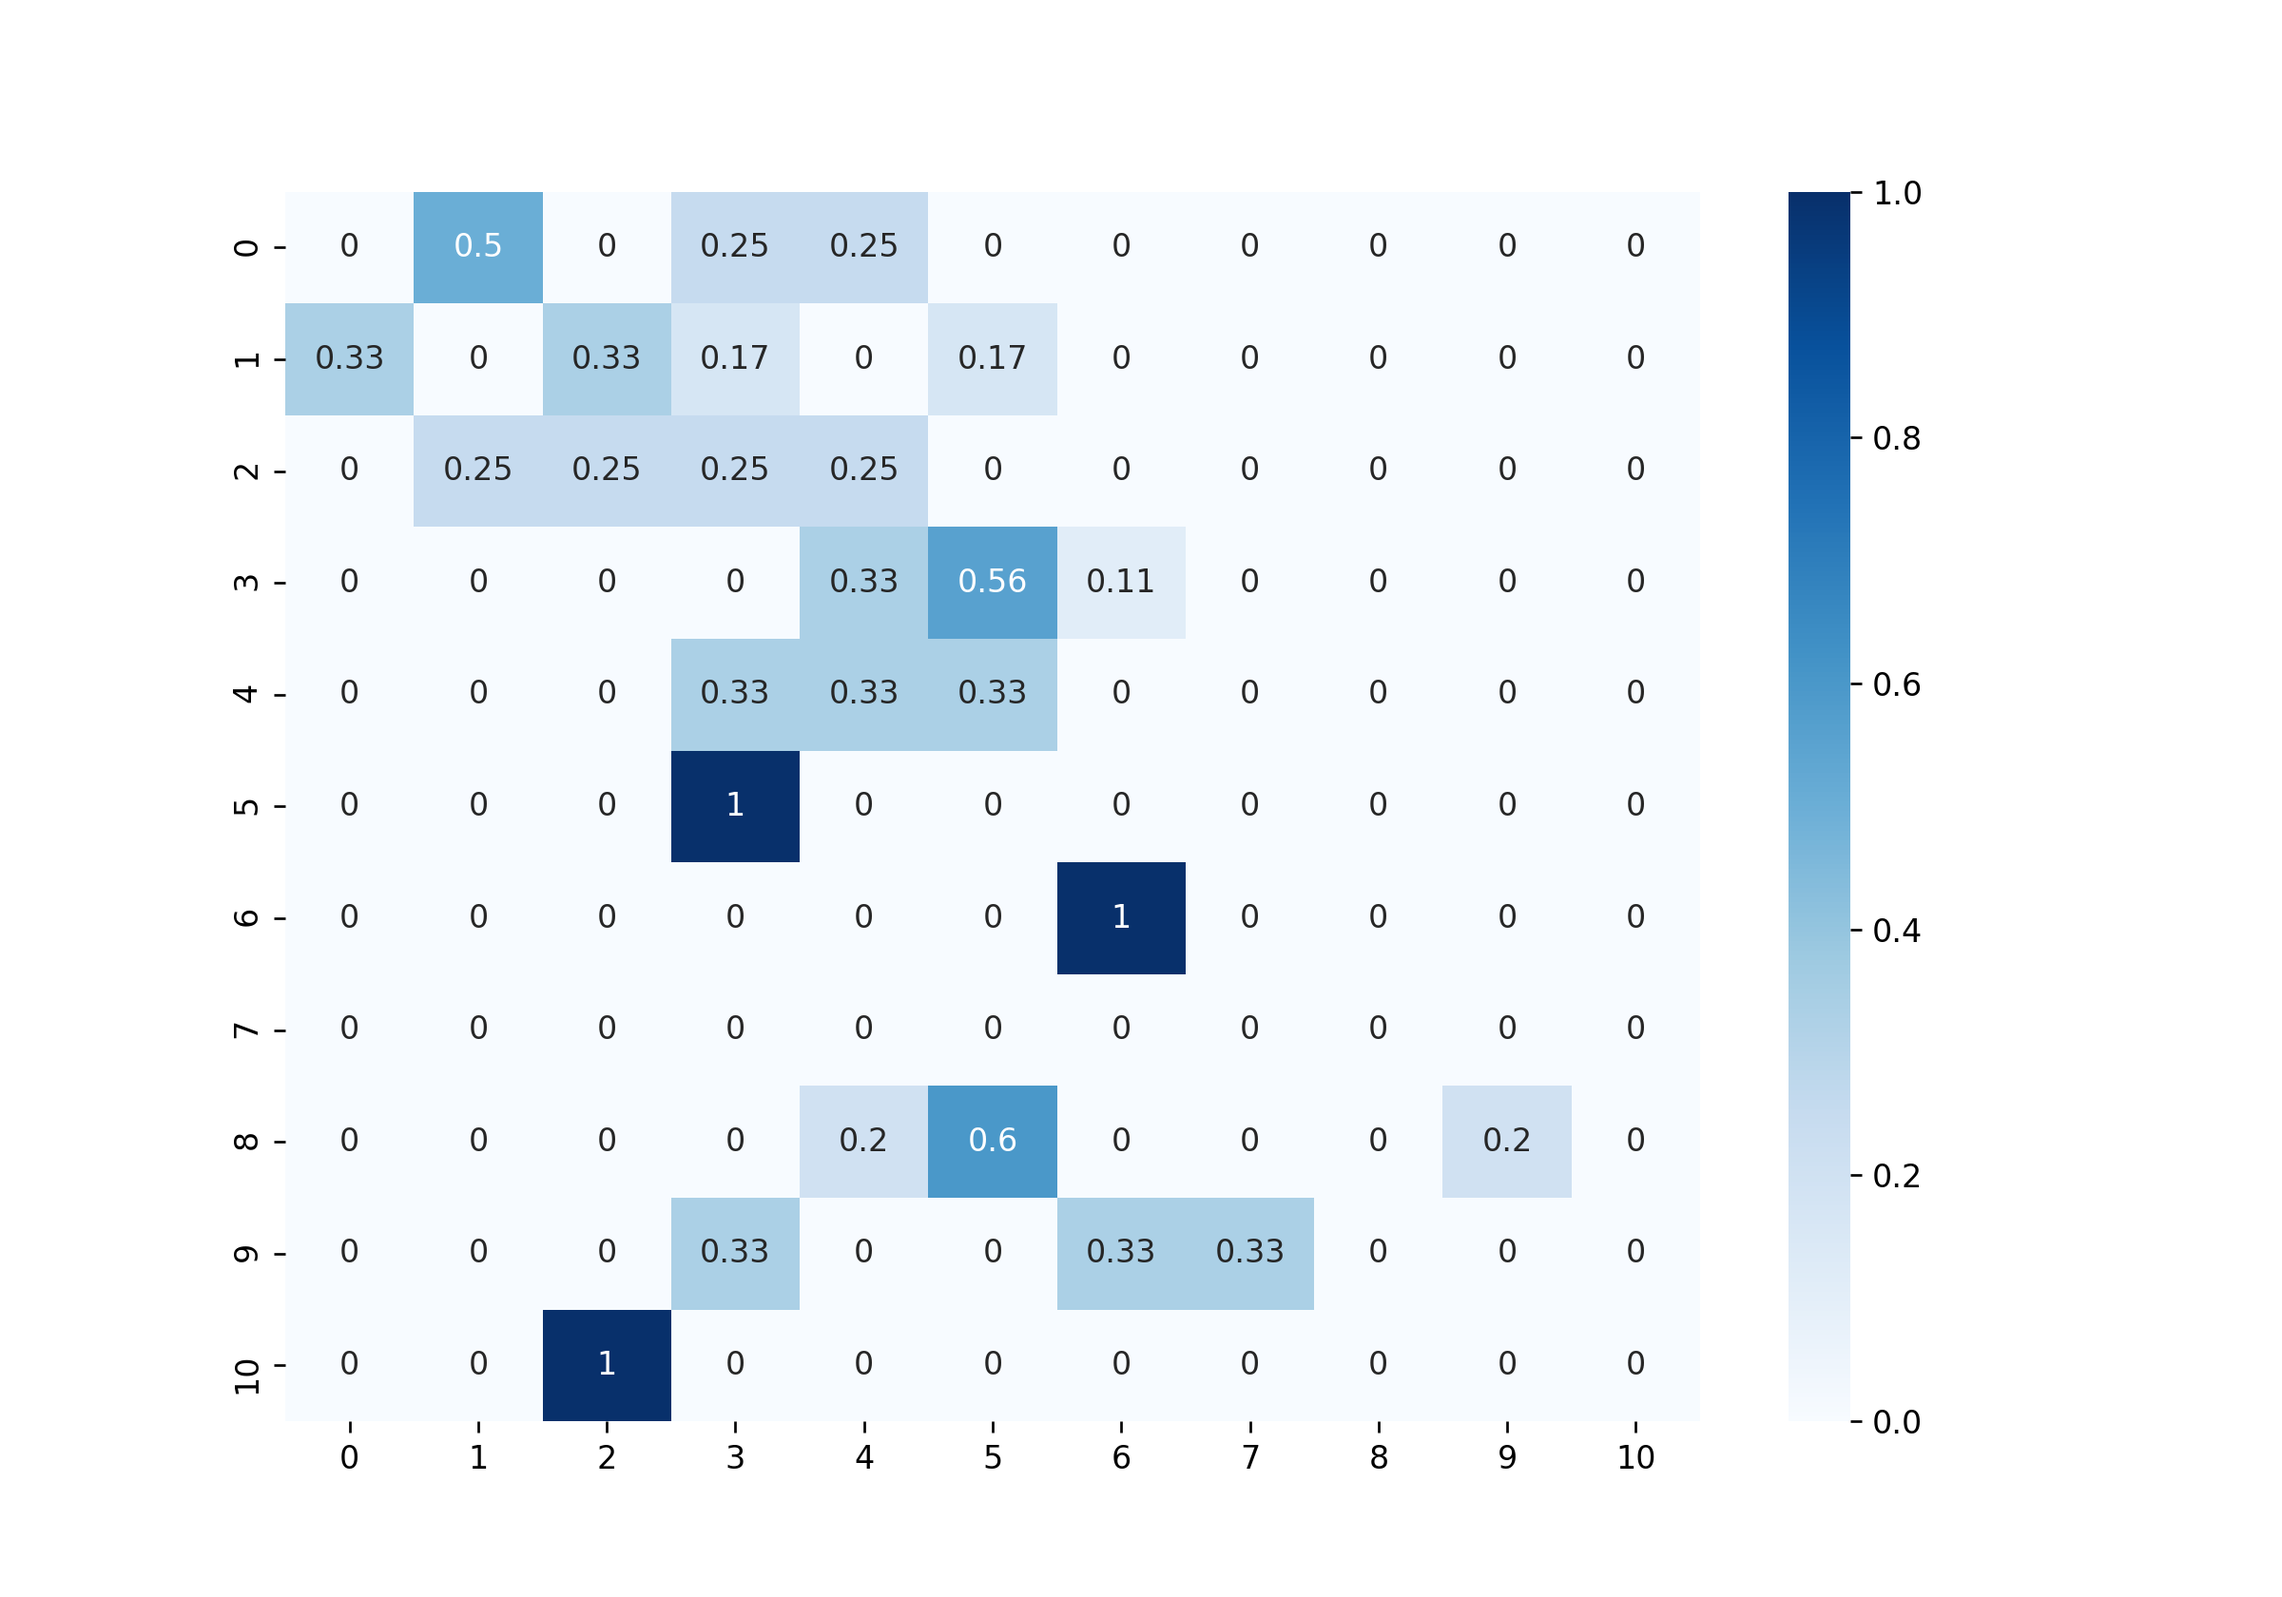
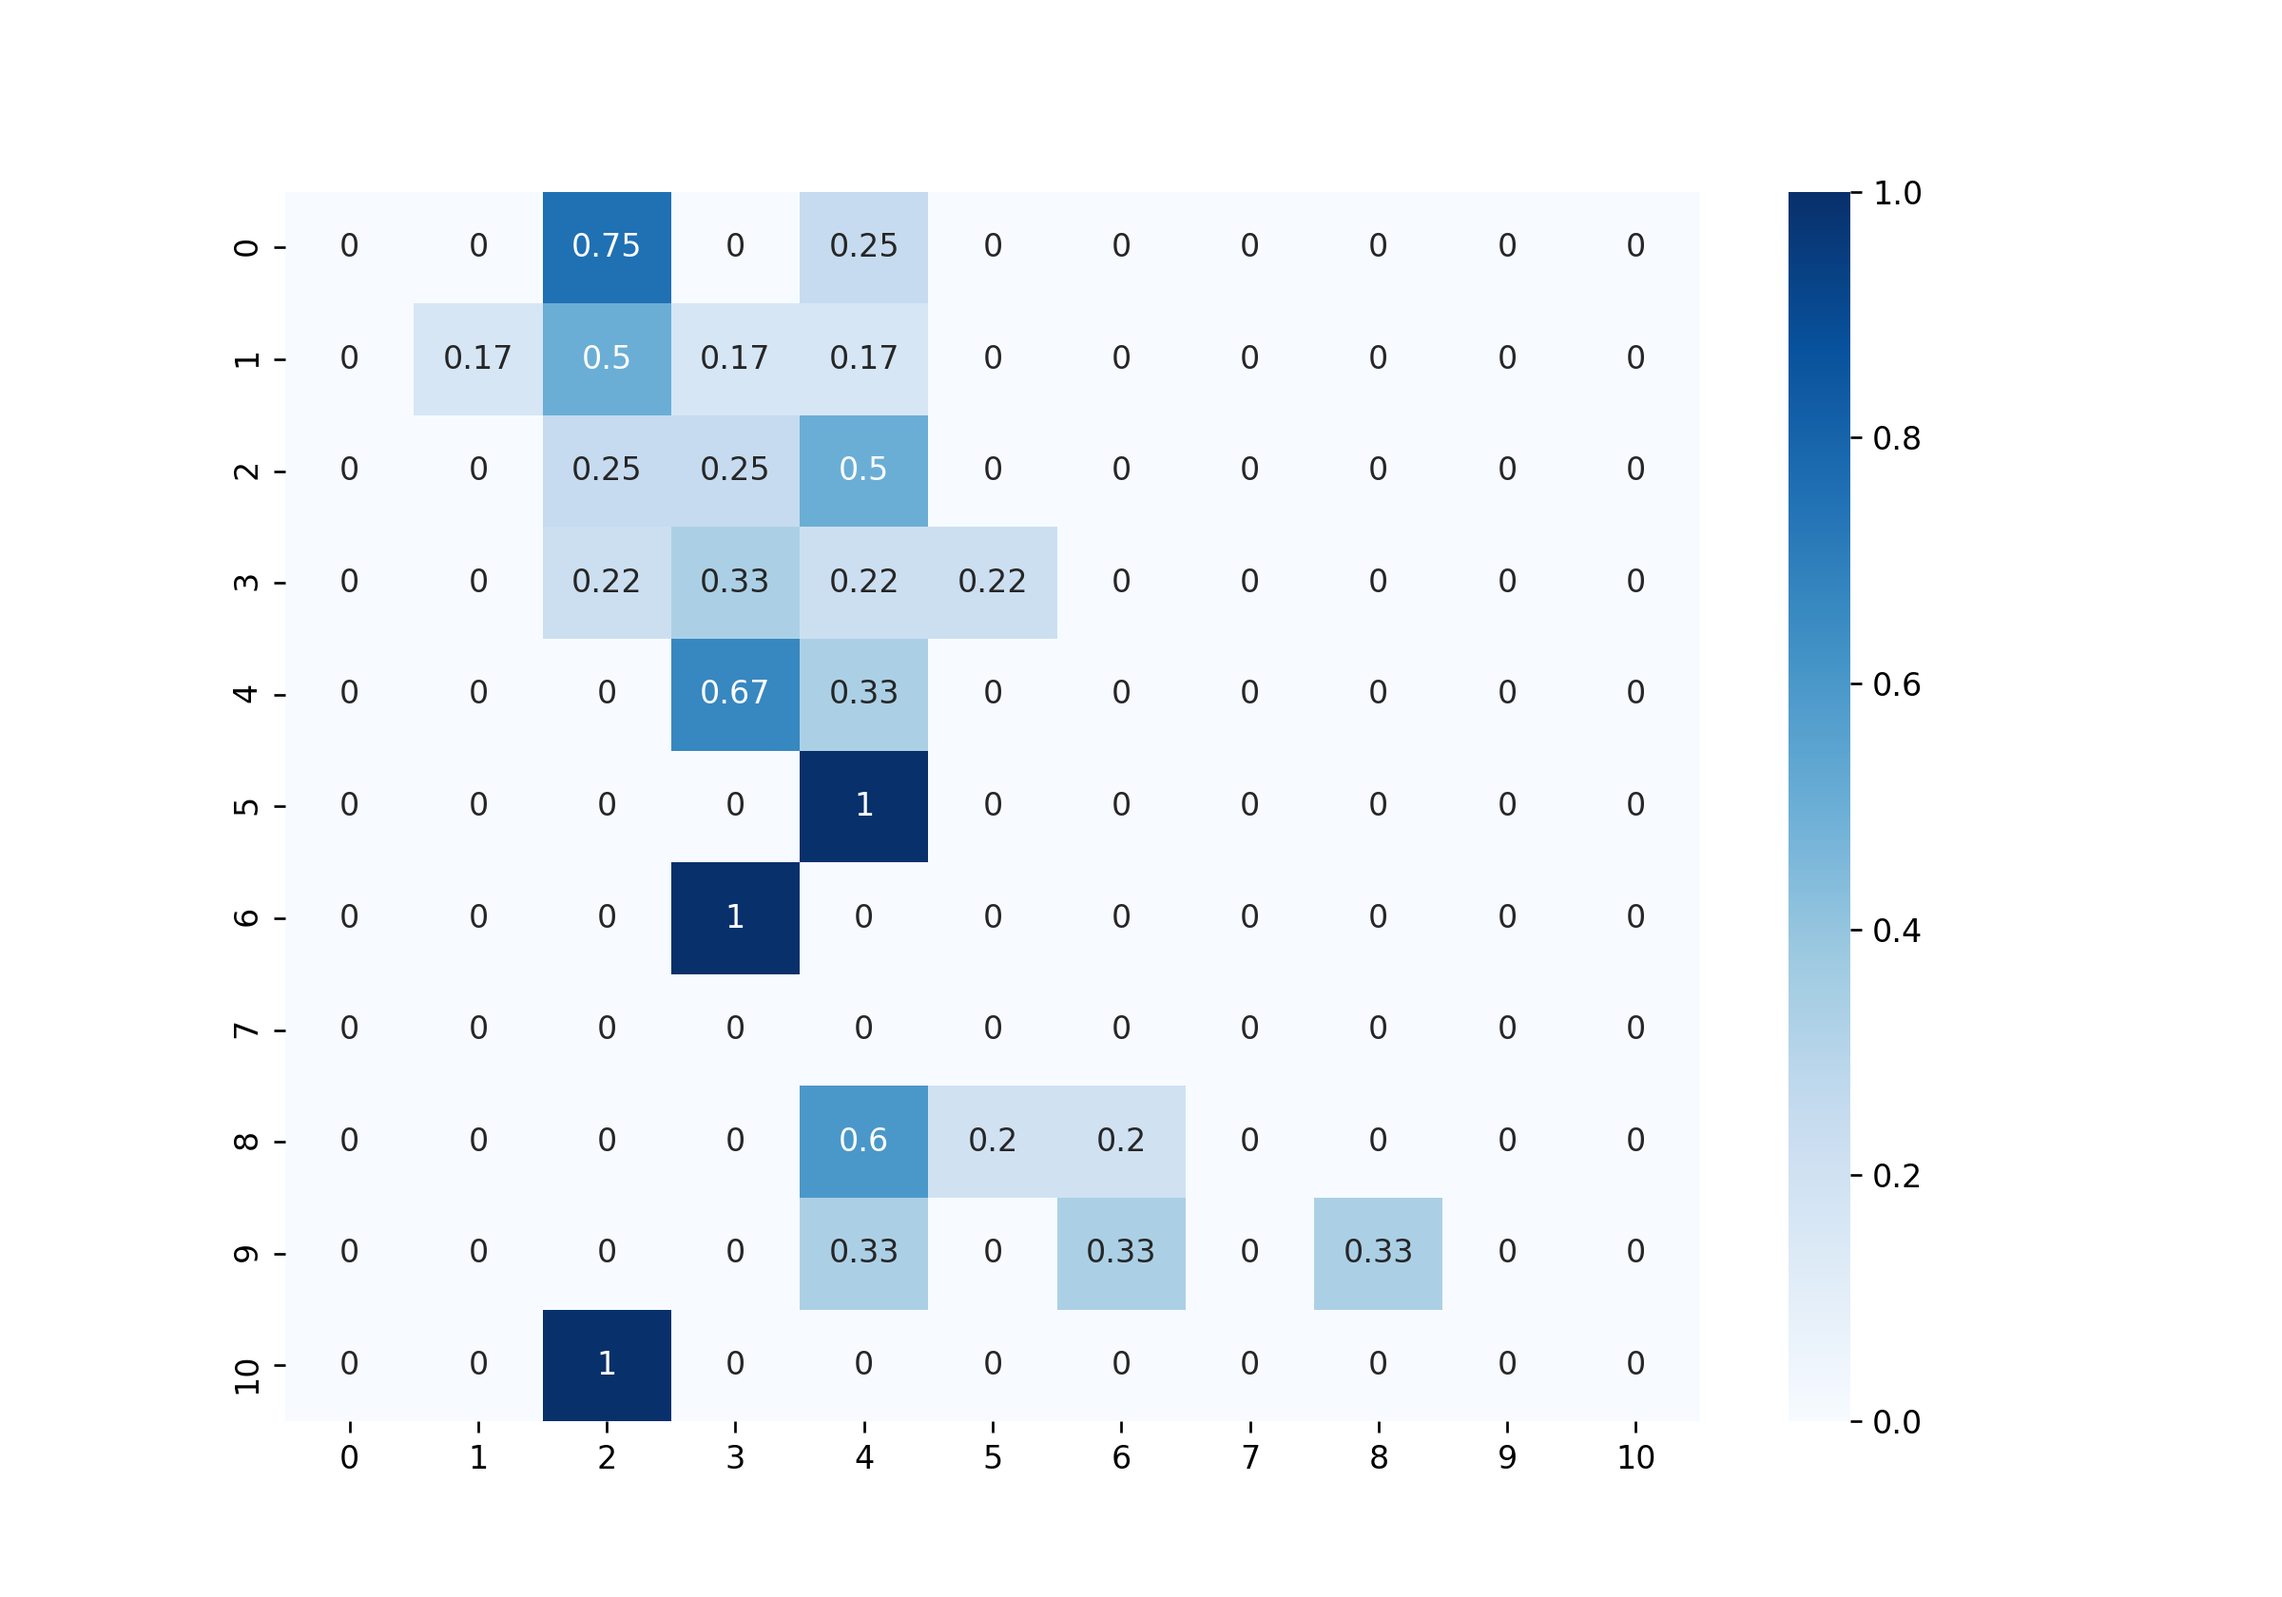
Corretto errore sforamento finestra frame rilevanti

Changed region(s): [[0.125, 0.0929, 0.5, 0.619], [0.2812, 0.681, 0.6875, 0.8357], [0.4375, 0.5262, 0.5312, 0.619]]

diff --git a/PreliminaryClustering.py b/PreliminaryClustering.py
@@ -156,9 +156,17 @@ class PreliminaryClustering:
             data_velocities_filtered = np.convolve(data_velocities, np.ones(3) / 3, mode='valid')
             if self.vel_frame_window > 0:
                 max_index, value = max(enumerate(data_velocities_filtered), key=operator.itemgetter(1))
-                index=[*range(max_index-int(self.vel_frame_window/2),max_index+int(self.vel_frame_window/2),1)]
+                if max_index + int(self.vel_frame_window / 2) > lndk_vel.shape[0]:
+                    end = lndk_vel.shape[0]-1
+                else:
+                    end = max_index + int(self.vel_frame_window / 2)
+                if max_index - int(self.vel_frame_window / 2) < 0:
+                    start = 0
+                else:
+                    start = max_index - int(self.vel_frame_window / 2)
+                index = [*range(start, end, 1)]
             else:
-                index=[*range(0, lndk_vel.shape[0]-1)]
+                index = [*range(0, lndk_vel.shape[0] - 1)]
             total_index.append(index)
         return total_index
 

diff --git a/test_accuracy.py b/test_accuracy.py
@@ -203,10 +203,11 @@ def test_accuracy():
         execute_train(selected_lndks_idx, n_kernels_GMM, threshold_VAS, desc, vel_frame_window)
 
     print("Descrizione della sequenza usando: 1) tutti i frame disponibili, 2) una finestra di N frames centrata sul frame a massima dinamica")
-    vel_frame_window = [0, 6]
+    vel_frame_window = [0, 32, 64]
     for vel in vel_frame_window:
         execute_train(selected_lndks_idx, n_kernels_GMM, threshold_VAS, description, vel)
 
-#TODO: correggere finestra eccesso, aggiungere vel lndk 30 in caso solo pos.
+
+# TODO: aggiungere vel lndk 30 in caso solo pos.
 
 test_accuracy()
